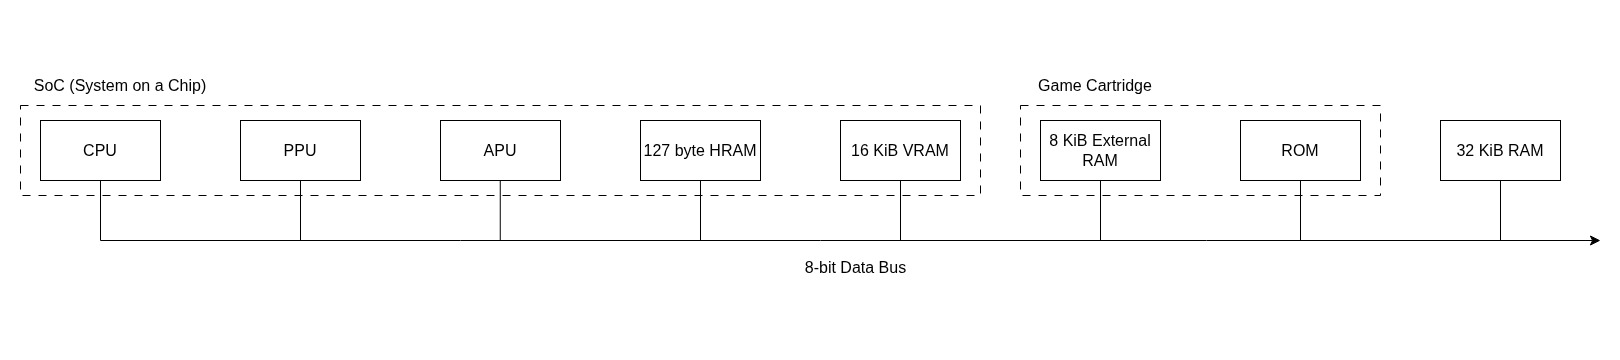
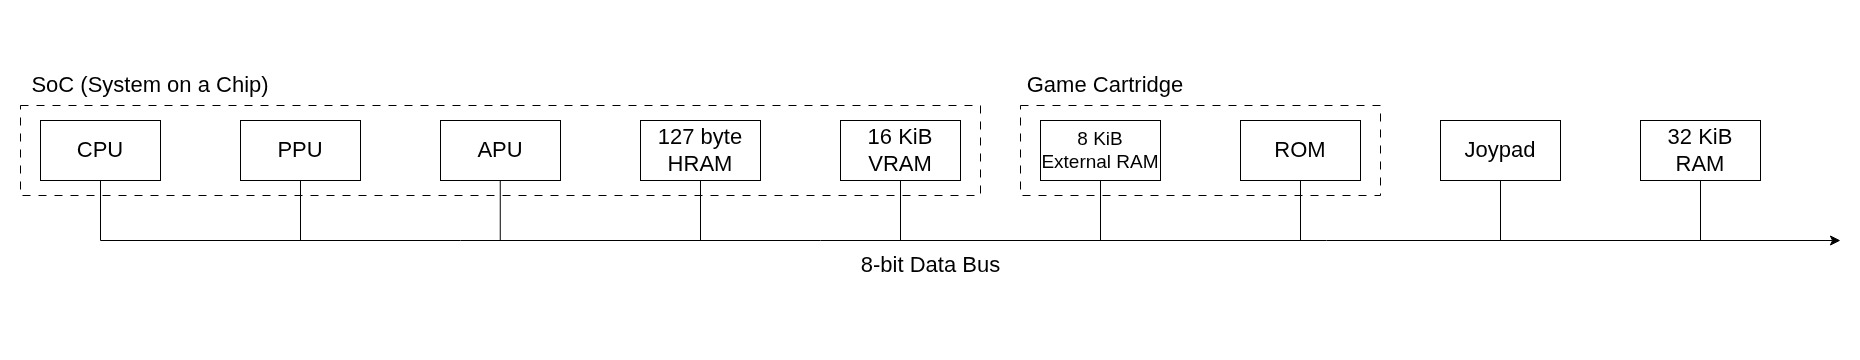
Updated memory architecture diagram

diff --git a/_posts/2026-02-15-firststeps.md b/_posts/2026-02-15-firststeps.md
@@ -15,14 +15,14 @@ Inside of a Game Boy Color, there are a couple different processors that I will 
 
 I'll also need to handle user input, which will not only involve reading the input from the keyboard, but also emulating I/O related hardware interrupts.
 
+![Memory Architecture]({{ site.baseurl }}/assets/memory_architecture.jpg)
+
 ## The CPU
 The Game Boy Color used the same Sharp SM83 CPU as the original Game Boy, with the exception that it's clock speed was now roughly 8.38 MHz — double the clock speed of the original. In order to keep the console backwards compatible with the original Game Boy's games, the Game Boy Color's CPU had 2 modes: Normal mode with a clock speed of roughly 4.19 MHz; and Dual-speed mode with the aforementioned speed of ~8.38MHz.
 
 The Sharp SM83 had an addressable memory space of 64 KiB with it's 16-bit address bus, and is used for ROM, RAM, and I/O. Connecting all these together was an 8-bit data bus.
 
 Additionally, there was also 32 KiB of memory stored onboard of the motherboard.
-
-![CPU Memory Architecture]({{ site.baseurl }}/assets/memory_architecture.jpg)
 
 ## The PPU
 To render graphics to the screen, the Game Boy Color would use it's PPU, which is capable of rendering a max of 10 sprites per line, or 40 sprites to the screen in 32 768 different colours. An interesting detail here though, is that the PPU is only responsible for rendering the images to the screen, all graphics-related calculations are actually done by the CPU.
